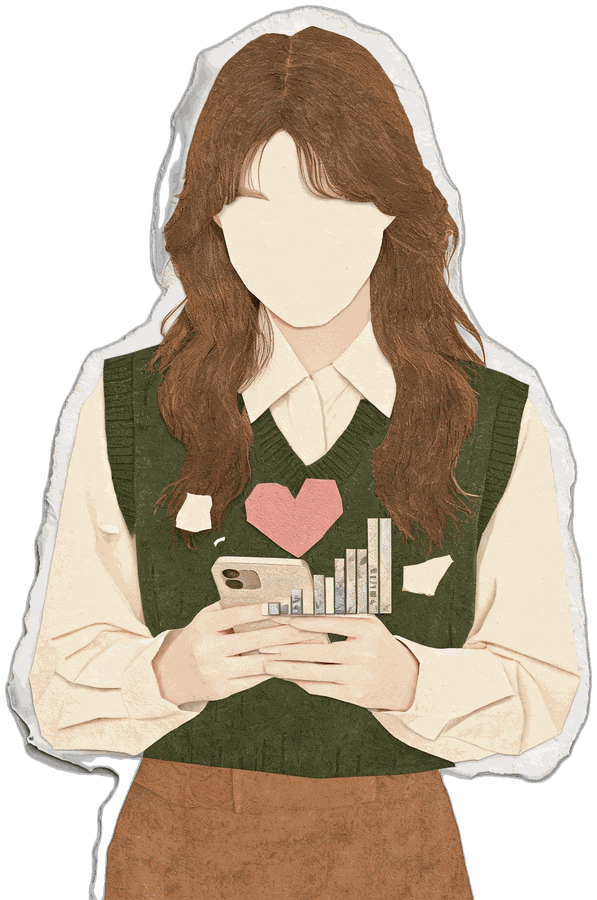
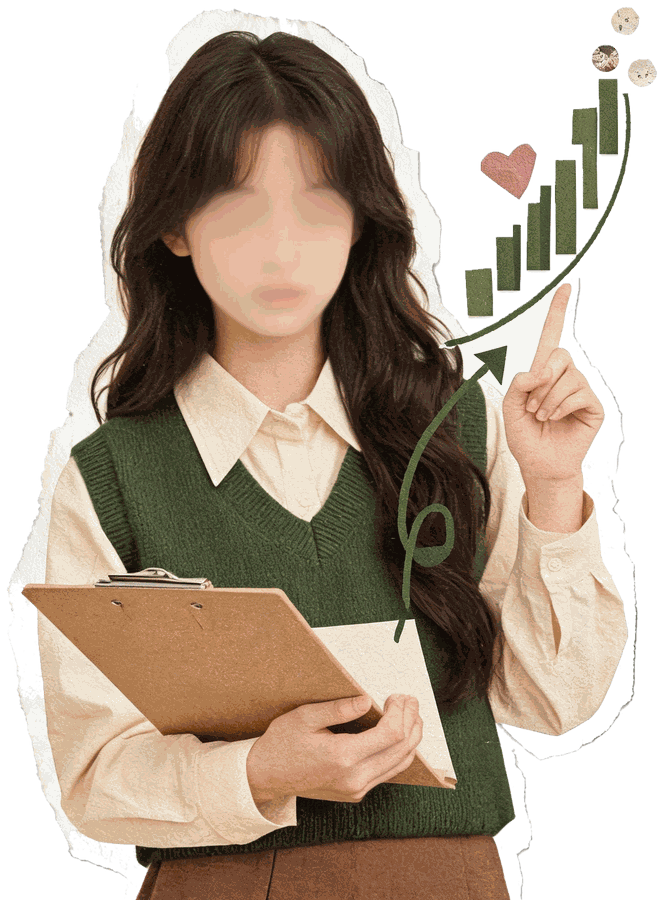
Redesign hero around name, add collage backdrop and new interactive illustrations

diff --git a/docs/styles.css b/docs/styles.css
@@ -48,16 +48,23 @@ button:focus-visible,a:focus-visible { outline:3px solid var(--c1); outline-offs
 
 /* 首屏 */
 .hero { min-height:100svh; padding-top:var(--nav); display:grid; align-items:center; overflow:hidden; }
-.hero::after { content:""; position:absolute; z-index:-1; width:30vw; aspect-ratio:1; right:-10vw; top:8vh; border-radius:50%; background:var(--c2); opacity:.45; }
-.hero-content { display:grid; grid-template-columns:minmax(0,1.08fr) minmax(280px,.92fr); align-items:end; gap:clamp(26px,4vw,60px); padding-block:30px 34px; }
-.hero-head { grid-column:1/-1; }
+.hero-bg { position:absolute; inset:0; z-index:0; pointer-events:none; }
+.bg-paper { position:absolute; right:-4%; top:5%; width:46%; height:86%; background:var(--alt); background-image:var(--noise); border:1px solid var(--line); clip-path:var(--torn); transform:rotate(-2.5deg); }
+.bg-grid { position:absolute; left:-24px; bottom:9%; width:280px; height:200px; background-image:linear-gradient(rgba(41,38,38,.08) 1px,transparent 1px),linear-gradient(90deg,rgba(41,38,38,.08) 1px,transparent 1px); background-size:26px 26px; transform:rotate(-4deg); }
+.bg-circle { position:absolute; right:7%; bottom:9%; width:150px; height:150px; border:1.5px dashed var(--c1); border-radius:50%; opacity:.7; }
+.bg-word { position:absolute; left:0; bottom:-3%; font-family:var(--condensed); font-size:clamp(130px,18vw,250px); font-weight:900; line-height:.8; letter-spacing:.02em; color:transparent; -webkit-text-stroke:1px rgba(41,38,38,.10); }
+.bg-tape { position:absolute; width:110px; height:30px; background:rgba(180,154,113,.4); mix-blend-mode:multiply; }
+.tape-a { top:9%; right:26%; transform:rotate(-8deg); }
+.tape-b { bottom:22%; left:40%; width:80px; background:rgba(165,177,178,.45); transform:rotate(12deg); }
+.hero-content { position:relative; z-index:1; display:grid; grid-template-columns:minmax(0,1.12fr) minmax(280px,.88fr); align-items:center; gap:clamp(20px,3vw,44px); padding-block:36px 40px; }
+.hero-head,.hero-copy { grid-column:1; }
 .status-pill { display:inline-flex; align-items:center; min-height:40px; padding:0 18px; margin-bottom:18px; color:var(--cream); background:var(--c1); border-radius:999px; font-family:var(--sans); font-size:11px; font-weight:700; letter-spacing:.16em; text-transform:uppercase; }
 .status-pill::before { content:""; width:7px; height:7px; margin-right:10px; border-radius:50%; background:var(--cream); }
-.hero-name { margin-bottom:10px; color:var(--c4); font-family:var(--sans); font-size:15px; font-weight:700; letter-spacing:.06em; }
-h1 { font-family:var(--serif); font-size:clamp(52px,6.4vw,92px); line-height:.92; letter-spacing:-.02em; font-weight:700; }
-h1 span { display:block; }
-h1 .accent { color:var(--c1); }
-.hero-role { margin-top:18px; font-family:var(--sans); font-size:16px; font-weight:700; }
+.hero-title { margin:0; }
+.hero-name-big { display:block; font-family:var(--serif); font-size:clamp(110px,13vw,190px); line-height:.95; font-weight:700; letter-spacing:.05em; color:var(--ink); }
+.hero-name-en { position:relative; z-index:0; display:inline-block; margin-top:14px; color:var(--c1); font-family:var(--condensed); font-size:clamp(40px,5.4vw,78px); font-weight:900; line-height:.95; letter-spacing:.06em; text-transform:uppercase; }
+.hero-name-en::after { content:attr(data-shadow); position:absolute; z-index:-1; left:0; top:0; width:100%; transform:translate(7px,7px); color:var(--c3); opacity:.55; }
+.hero-role { margin-top:20px; font-family:var(--sans); font-size:17px; font-weight:700; }
 .hero-copy { min-width:0; }
 .chip-row { display:flex; flex-wrap:wrap; gap:8px; }
 .chip { display:inline-flex; align-items:center; min-height:34px; padding:7px 13px; border:1px solid rgba(41,38,38,.32); border-radius:999px; font-family:var(--sans); font-size:11px; font-weight:700; letter-spacing:.05em; }
@@ -72,15 +79,18 @@ h1 .accent { color:var(--c1); }
 .button-link:hover { transform:translateY(-2px); border-color:var(--ink); }
 .button-link:active { transform:translateY(0); }
 .button-link.primary { color:var(--cream); background:var(--ink); border-color:var(--ink); }
-.portrait-wrap { position:relative; justify-self:end; width:min(100%,300px); aspect-ratio:4/5; overflow:hidden; border:2px solid var(--ink); background:var(--card-bg); box-shadow:14px 14px 0 var(--c2); isolation:isolate; }
+.portrait-wrap { position:relative; grid-column:2; grid-row:1/3; justify-self:center; align-self:center; width:min(100%,320px); aspect-ratio:4/5; overflow:hidden; border:2px solid var(--ink); background:var(--card-bg); box-shadow:14px 14px 0 var(--c2); isolation:isolate; }
 .portrait-wrap img { display:block; width:100%; height:100%; object-fit:contain; object-position:center; }
 .portrait-wrap figcaption { position:absolute; z-index:2; left:18px; bottom:16px; padding:8px 11px; color:var(--cream); background:var(--ink); font-family:var(--sans); font-size:11px; font-weight:700; letter-spacing:.14em; }
 
 .section-shell { padding-block:clamp(72px,9vh,104px); }
 .section-heading { margin-bottom:36px; }
-.section-heading.has-illo { display:flex; align-items:center; justify-content:space-between; gap:24px; }
+.section-heading.has-illo { display:flex; align-items:center; justify-content:space-between; gap:24px; margin-bottom:20px; }
 .heading-text { min-width:0; }
-.section-illo { flex-shrink:0; width:auto; height:210px; object-fit:contain; filter:drop-shadow(6px 10px 14px rgba(41,38,38,.2)); transform:rotate(2deg); }
+.illo-stage { position:relative; z-index:2; flex-shrink:0; margin:0 0 -30px; }
+.illo-stage::before { content:""; position:absolute; inset:12% -6% 2%; background:var(--card-bg); background-image:var(--noise); border:1px solid var(--line); clip-path:var(--torn); transform:rotate(-3deg); }
+.illo-stage::after { content:""; position:absolute; z-index:2; top:3%; left:50%; width:78px; height:22px; transform:translateX(-50%) rotate(-5deg); background:rgba(180,154,113,.42); mix-blend-mode:multiply; }
+.section-illo { position:relative; z-index:1; display:block; width:auto; height:210px; object-fit:contain; filter:drop-shadow(5px 8px 12px rgba(41,38,38,.18)); transform:rotate(2deg); }
 .eyebrow { color:rgba(41,38,38,.55); font-family:var(--sans); font-size:11px; font-weight:700; letter-spacing:.18em; text-transform:uppercase; }
 .crown { position:relative; z-index:0; display:inline-block; margin-top:8px; color:var(--accent,var(--ink)); font-family:var(--condensed); font-size:clamp(56px,8vw,120px); font-weight:900; line-height:.9; letter-spacing:.01em; text-transform:uppercase; }
 .crown.long { font-size:clamp(40px,5.6vw,84px); }
@@ -176,7 +186,8 @@ h1 .accent { color:var(--c1); }
 .contact-actions a { min-height:48px; display:inline-flex; align-items:center; padding:0 18px; color:var(--ink); background:var(--cream); border:1px solid var(--cream); border-radius:4px; text-decoration:none; font-family:var(--sans); font-size:13px; font-weight:700; transition:transform .2s; }
 .contact-actions a:hover { transform:translateY(-2px); }
 .contact-actions a:last-child { color:var(--cream); background:transparent; }
-.contact-illo { justify-self:center; width:auto; height:340px; object-fit:contain; filter:drop-shadow(8px 12px 18px rgba(0,0,0,.28)); transform:rotate(-2deg); }
+.contact-layout .illo-stage { justify-self:center; margin-bottom:0; }
+.contact-illo { position:relative; z-index:1; display:block; width:auto; height:340px; object-fit:contain; filter:drop-shadow(8px 12px 18px rgba(0,0,0,.28)); transform:rotate(-2deg); }
 footer { min-height:72px; display:grid; place-items:center; padding:18px; border-top:1px solid rgba(242,238,230,.16); color:rgba(242,238,230,.62); background:var(--ink); font-family:var(--sans); font-size:11px; font-weight:700; letter-spacing:.14em; }
 footer span { color:var(--c2); }
 
@@ -198,11 +209,18 @@ footer span { color:var(--c2); }
   .nav-links a { min-height:46px; display:flex; align-items:center; padding-inline:12px; font-size:13px; }
   .brand { font-size:17px; }
   .hero { min-height:100svh; align-items:start; }
-  .hero::after { width:64vw; right:-26vw; top:60vh; opacity:.3; }
+  .bg-paper { width:88%; height:44%; top:auto; bottom:3%; right:-8%; }
+  .bg-grid { display:none; }
+  .bg-circle { width:96px; height:96px; right:8%; bottom:6%; }
+  .bg-word { font-size:26vw; bottom:34%; left:-2%; }
+  .tape-a { right:12%; top:12%; width:80px; height:24px; }
+  .tape-b { display:none; }
   .hero-content { grid-template-columns:1fr; align-items:start; gap:26px; padding-block:30px 60px; }
-  .hero-head { grid-column:auto; }
-  h1 { font-size:clamp(36px,9.6vw,46px); line-height:.98; }
-  .hero-role { font-size:15px; }
+  .hero-head,.hero-copy { grid-column:auto; }
+  .hero-name-big { font-size:clamp(76px,21vw,110px); }
+  .hero-name-en { font-size:clamp(30px,8.6vw,44px); margin-top:10px; }
+  .hero-name-en::after { transform:translate(5px,5px); }
+  .hero-role { margin-top:16px; font-size:15px; }
   .status-pill { min-height:36px; margin-bottom:14px; padding-inline:15px; }
   .hero-stat { min-height:74px; padding:10px 12px; }
   .hero-stat strong { font-size:23px; white-space:nowrap; }
@@ -210,7 +228,7 @@ footer span { color:var(--c2); }
   .hero-actions { display:grid; grid-template-columns:1fr 1fr; }
   .button-link { min-height:48px; padding-inline:12px; }
   .button-link:first-child { grid-column:1/-1; }
-  .portrait-wrap { order:3; justify-self:center; width:min(100%,300px); box-shadow:8px 8px 0 var(--c2); }
+  .portrait-wrap { order:3; grid-column:auto; grid-row:auto; justify-self:center; width:min(100%,280px); box-shadow:8px 8px 0 var(--c2); }
   .portrait-wrap img { height:auto; }
   .section-shell { padding-block:64px; }
   .section-heading { margin-bottom:28px; }
@@ -220,6 +238,8 @@ footer span { color:var(--c2); }
   .crown.long { font-size:clamp(25px,6.2vw,36px); }
   .crown::after { transform:translate(5px,5px); }
   .section-illo { height:120px; transform:rotate(3deg); }
+  .illo-stage { margin-bottom:-14px; }
+  .illo-stage::after { width:56px; height:18px; }
   .about-card { min-height:210px; }
   .job { grid-template-columns:1fr; gap:10px; padding:24px 0; }
   .job h3 { font-size:24px; }
@@ -232,12 +252,14 @@ footer span { color:var(--c2); }
   .contact-copy>p:not(.eyebrow) { font-size:15px; }
   .contact-actions { display:grid; }
   .contact-actions a { justify-content:center; overflow-wrap:anywhere; }
-  .contact-illo { height:220px; justify-self:start; margin-left:12px; }
+  .contact-layout .illo-stage { justify-self:start; margin-left:12px; }
+  .contact-illo { height:220px; }
 }
 
 @media (min-width:761px) and (max-height:780px) {
   .hero-content { padding-block:20px 24px; gap:22px 40px; }
-  h1 { font-size:clamp(44px,5.4vw,72px); }
+  .hero-name-big { font-size:clamp(84px,10vw,140px); }
+  .hero-name-en { font-size:clamp(32px,4.4vw,56px); }
   .status-pill { min-height:36px; margin-bottom:12px; }
   .hero-role { margin-top:12px; font-size:15px; }
   .hero-stats { margin-top:14px; }

diff --git a/docs/index.html b/docs/index.html
@@ -27,11 +27,21 @@
 
   <main>
     <section class="hero scene" id="hero">
+      <div class="hero-bg" aria-hidden="true">
+        <span class="bg-paper"></span>
+        <span class="bg-grid"></span>
+        <span class="bg-circle"></span>
+        <span class="bg-word">PORTFOLIO</span>
+        <span class="bg-tape tape-a"></span>
+        <span class="bg-tape tape-b"></span>
+      </div>
       <div class="hero-content page-shell">
         <div class="hero-head">
           <p class="status-pill" id="personLocation">北京 · BEIJING</p>
-          <p class="hero-name" id="personName">秦铭</p>
-          <h1 id="heroTagline"><span>把镜头对准真实，</span><span class="accent">把内容做成结果。</span></h1>
+          <h1 class="hero-title">
+            <span class="hero-name-big" id="personName">秦铭</span>
+            <span class="hero-name-en" data-shadow="QIN MING">QIN MING</span>
+          </h1>
           <p class="hero-role" id="personRole"></p>
         </div>
         <div class="hero-copy">
@@ -55,7 +65,7 @@
             <div class="crown" data-shadow="RESUME">RESUME</div>
             <h2>简历</h2>
           </div>
-          <img class="section-illo" src="media/illo-resume.png" alt="手持简历与纸片的拼贴风人物插画" width="746" height="900" loading="lazy" decoding="async">
+          <figure class="illo-stage"><img class="section-illo" src="media/illo-resume.png" alt="手持简历与纸片的拼贴风人物插画" width="746" height="900" loading="lazy" decoding="async"></figure>
         </div>
         <div class="resume-grid">
           <dl class="resume-basics" id="resumeBasics"></dl>
@@ -67,10 +77,13 @@
 
     <section class="skills scene tone-2" id="skills">
       <div class="page-shell section-shell">
-        <div class="section-heading">
-          <p class="eyebrow">02 / 09</p>
-          <div class="crown" data-shadow="SKILLS">SKILLS</div>
-          <h2>个人技能</h2>
+        <div class="section-heading has-illo">
+          <div class="heading-text">
+            <p class="eyebrow">02 / 09</p>
+            <div class="crown" data-shadow="SKILLS">SKILLS</div>
+            <h2>个人技能</h2>
+          </div>
+          <figure class="illo-stage"><img class="section-illo" src="media/illo-shooting.png" alt="手持相机、胶片与照片环绕的拼贴风人物插画" width="800" height="900" loading="lazy" decoding="async"></figure>
         </div>
         <div class="about-grid" id="skillGrid"></div>
       </div>
@@ -85,7 +98,7 @@
             <h2>账号运营</h2>
             <p>从起号、选题到数据复盘，用结果说话。</p>
           </div>
-          <img class="section-illo" src="media/illo-accounts.png" alt="手持手机与点赞图标的拼贴风人物插画" width="597" height="900" loading="lazy" decoding="async">
+          <figure class="illo-stage"><img class="section-illo" src="media/illo-accounts.png" alt="手持数据板、增长曲线环绕的拼贴风人物插画" width="597" height="900" loading="lazy" decoding="async"></figure>
         </div>
         <div class="account-grid" id="accountGrid"></div>
       </div>
@@ -105,7 +118,7 @@
             <a id="socialLink" href="tel:13522486458"></a>
           </div>
         </div>
-        <img class="contact-illo" src="media/illo-contact.png" alt="递出信封与纸飞机的拼贴风人物插画" width="700" height="900" loading="lazy" decoding="async">
+        <figure class="illo-stage"><img class="contact-illo" src="media/illo-contact.png" alt="递出信封与纸飞机的拼贴风人物插画" width="700" height="900" loading="lazy" decoding="async"></figure>
       </div>
     </section>
   </main>

diff --git a/docs/app.js b/docs/app.js
@@ -28,10 +28,6 @@
   setText("#personIntro", data.person.intro);
   setText("#footerName", data.person.name);
 
-  const heroTagline = $("#heroTagline");
-  heroTagline.replaceChildren(...data.person.tagline.map((line, index) =>
-    make("span", index ? "accent" : "", line)
-  ));
   const portrait = $("#portrait");
   portrait.src = data.person.portrait;
   portrait.alt = data.person.portraitAlt;
@@ -177,6 +173,7 @@
     if (section.intro) headingText.append(make("p", "", section.intro));
     heading.append(headingText);
     if (section.illo) {
+      const stage = make("figure", "illo-stage");
       const illo = document.createElement("img");
       illo.className = "section-illo";
       illo.src = section.illo;
@@ -185,7 +182,8 @@
       illo.decoding = "async";
       illo.width = 840;
       illo.height = 900;
-      heading.append(illo);
+      stage.append(illo);
+      heading.append(stage);
     }
     shell.append(heading);
     const single = section.items.length === 1;
